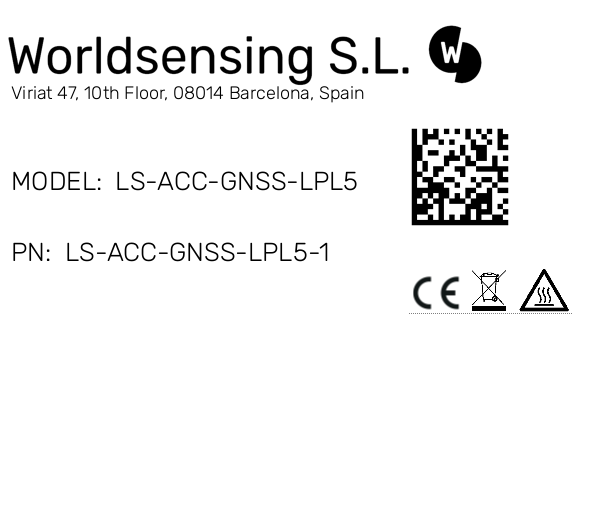
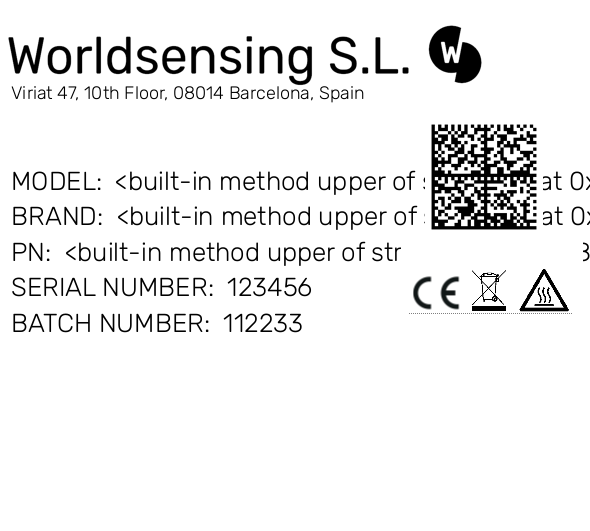
26/03/2026 implementación etiqueta producto, etiqueta GW

Changed region(s): [[0.0, 0.2109, 1.0, 0.452], [0.0, 0.452, 0.6712, 0.6328], [0.9763, 0.452, 1.0, 0.4821]]

diff --git a/labels.py b/labels.py
@@ -30,6 +30,7 @@ def load_config(file_path="config.json"):
 
 config = load_config()
 IMPRESORA = config.get("IMPRESORA", "")
+PRODUCT_PRINTER = config.get ("PRODUCT_PRINTER","")
 DIRECTORIO_LOGO = config.get("DIRECTORIO_LOGO", "")
 RUBIK_FONT_PATH = os.path.expanduser("~/.local/share/fonts/Rubik-Light.ttf")
 BATCH_N = config.get("batch", "")
@@ -116,6 +117,183 @@ def Impr_Acc_packaging_label(datam, Model, ERP_Code):
     label.save(output_path)
     return output_path
 
+def Impr_GW_packaging_label(datam, Model, ERP, SN, MAC, GW_ID):
+    mm_to_px = 11.81  # 300 DPI
+    width, height = int(50 * mm_to_px), int(45 * mm_to_px)
+    label = Image.new("RGB", (width, height), "white")
+    draw = ImageDraw.Draw(label)
+
+    try:
+        font_main = ImageFont.truetype(RUBIK_FONT_PATH, 26)
+        font_small = ImageFont.truetype(RUBIK_FONT_PATH, 18)
+    except:
+        font_main = font_small = ImageFont.load_default()
+
+    # Logo e Info
+    try:
+        logo_path = "/home/ws-prod23/labelling_tk_app/images/W_Label_Devices_new.png"
+        logo = Image.open(logo_path).resize((int(42 * mm_to_px), int(8 * mm_to_px)))
+        label.paste(logo, (0, 0))
+    except: pass
+
+    # Datos
+    y_pos, spacing = 10 * mm_to_px, 3 * mm_to_px
+    draw.text((1 * mm_to_px, y_pos), f"MODEL   {Model}", font=font_main, fill="black")
+    draw.rectangle([(0 * mm_to_px, y_pos),(9 * mm_to_px,y_pos+3 * mm_to_px)],fill = None, outline="black", width=2)
+    draw.rectangle([(9 * mm_to_px, y_pos),(34 * mm_to_px,y_pos+3 * mm_to_px)],fill = None, outline="black", width=2)
+
+    draw.text((1 * mm_to_px, y_pos + spacing), f"ERP        {ERP}", font=font_main, fill="black")
+    draw.rectangle([(0 * mm_to_px, y_pos + spacing),(9 * mm_to_px,y_pos+ spacing *2)],fill = None, outline="black", width=2)
+    draw.rectangle([(9 * mm_to_px, y_pos),(34 * mm_to_px,y_pos + spacing * 2)],fill = None, outline="black", width=2)
+
+    draw.text((1 * mm_to_px, y_pos + spacing * 2), f"SN           {SN}", font=font_main, fill="black")
+    draw.rectangle([(0 * mm_to_px, y_pos + spacing * 2),(9 * mm_to_px,y_pos + spacing * 3)],fill = None, outline="black", width=2)
+    draw.rectangle([(9 * mm_to_px, y_pos),(34 * mm_to_px,y_pos+ spacing * 3)],fill = None, outline="black", width=2)
+
+    draw.text((1 * mm_to_px, y_pos + spacing * 3), f"MAC        {MAC}", font=font_main, fill="black")
+    draw.rectangle([(0 * mm_to_px, y_pos + spacing * 3),(9 * mm_to_px,y_pos+ spacing * 4)],fill = None, outline="black", width=2)
+    draw.rectangle([(9 * mm_to_px, y_pos),(34 * mm_to_px,y_pos+ spacing * 4)],fill = None, outline="black", width=2)
+
+    draw.text((1 * mm_to_px, y_pos + spacing * 4), f"GW ID      {GW_ID}", font=font_main, fill="black")
+    draw.rectangle([(0 * mm_to_px, y_pos + spacing * 4),(9 * mm_to_px,y_pos + spacing * 5)],fill = None, outline="black", width=2)
+    draw.rectangle([(9 * mm_to_px, y_pos),(34 * mm_to_px,y_pos+ spacing * 5)],fill = None, outline="black", width=2)
+
+    draw.text((7 * mm_to_px, y_pos + spacing * 6), f"Made in France", font=font_main, fill="black")
+
+    # DataMatrix e Iconos
+    encoded = encode(datam.encode('utf8'))
+    dmtx = Image.frombytes('RGB', (encoded.width, encoded.height), encoded.pixels).resize((int(10 * mm_to_px), int(10 * mm_to_px)))
+    label.paste(dmtx, (int(36 * mm_to_px), int(10 * mm_to_px)))
+    
+    try:
+        icons = Image.open(os.path.join(DIRECTORIO_LOGO, "iconos.png"))
+        label.paste(icons, (int(34 * mm_to_px), int(20 * mm_to_px)))
+    except: pass
+    
+    output_path = os.path.expanduser("~/labelling_tk_app/output_gw.png")
+    label.save(output_path)
+    return output_path
+
+def Impr_GW_Repeater_packaging_label(datam, Model, ERP, SN, MAC, GW_ID, NetID, NodeID):
+    mm_to_px = 11.81  # 300 DPI
+    width, height = int(50 * mm_to_px), int(45 * mm_to_px)
+    label = Image.new("RGB", (width, height), "white")
+    draw = ImageDraw.Draw(label)
+
+    try:
+        font_main = ImageFont.truetype(RUBIK_FONT_PATH, 26)
+        font_small = ImageFont.truetype(RUBIK_FONT_PATH, 18)
+    except:
+        font_main = font_small = ImageFont.load_default()
+
+    # Logo e Info
+    try:
+        logo_path = "/home/ws-prod23/labelling_tk_app/images/W_Label_Devices_new.png"
+        logo = Image.open(logo_path).resize((int(38 * mm_to_px), int(7 * mm_to_px)))
+        label.paste(logo, (0, 0))
+    except: pass
+
+    # Datos
+    y_pos, spacing = 7 * mm_to_px, 3 * mm_to_px
+    draw.text((1 * mm_to_px, y_pos), f"MODEL       {Model}", font=font_main, fill="black")
+    draw.rectangle([(0 * mm_to_px, y_pos),(10 * mm_to_px,y_pos+3 * mm_to_px)],fill = None, outline="black", width=2)
+    draw.rectangle([(10 * mm_to_px, y_pos),(34 * mm_to_px,y_pos+3 * mm_to_px)],fill = None, outline="black", width=2)
+
+    draw.text((1 * mm_to_px, y_pos + spacing), f"ERP             {ERP}", font=font_main, fill="black")
+    draw.rectangle([(0 * mm_to_px, y_pos + spacing),(10 * mm_to_px,y_pos+ spacing *2)],fill = None, outline="black", width=2)
+    draw.rectangle([(10 * mm_to_px, y_pos),(34 * mm_to_px,y_pos + spacing * 2)],fill = None, outline="black", width=2)
+
+    draw.text((1 * mm_to_px, y_pos + spacing * 2), f"SN               {SN}", font=font_main, fill="black")
+    draw.rectangle([(0 * mm_to_px, y_pos + spacing * 2),(10 * mm_to_px,y_pos + spacing * 3)],fill = None, outline="black", width=2)
+    draw.rectangle([(10 * mm_to_px, y_pos),(34 * mm_to_px,y_pos+ spacing * 3)],fill = None, outline="black", width=2)
+
+    draw.text((1 * mm_to_px, y_pos + spacing * 3), f"MAC            {MAC}", font=font_main, fill="black")
+    draw.rectangle([(0 * mm_to_px, y_pos + spacing * 3),(10 * mm_to_px,y_pos+ spacing * 4)],fill = None, outline="black", width=2)
+    draw.rectangle([(10 * mm_to_px, y_pos),(34 * mm_to_px,y_pos+ spacing * 4)],fill = None, outline="black", width=2)
+
+    draw.text((1 * mm_to_px, y_pos + spacing * 4), f"GW ID          {GW_ID}", font=font_main, fill="black")
+    draw.rectangle([(0 * mm_to_px, y_pos + spacing * 4),(10 * mm_to_px,y_pos + spacing * 5)],fill = None, outline="black", width=2)
+    draw.rectangle([(10 * mm_to_px, y_pos),(34 * mm_to_px,y_pos+ spacing * 5)],fill = None, outline="black", width=2)
+
+    draw.text((1 * mm_to_px, y_pos + spacing * 5), f"NODE ID     {GW_ID}", font=font_main, fill="black")
+    draw.rectangle([(0 * mm_to_px, y_pos + spacing * 4),(10 * mm_to_px,y_pos + spacing * 6)],fill = None, outline="black", width=2)
+    draw.rectangle([(10 * mm_to_px, y_pos),(34 * mm_to_px,y_pos+ spacing * 6)],fill = None, outline="black", width=2)
+
+    draw.text((1 * mm_to_px, y_pos + spacing * 6), f"NET ID        {GW_ID}", font=font_main, fill="black")
+    draw.rectangle([(0 * mm_to_px, y_pos + spacing * 4),(10 * mm_to_px,y_pos + spacing * 7)],fill = None, outline="black", width=2)
+    draw.rectangle([(10 * mm_to_px, y_pos),(34 * mm_to_px,y_pos+ spacing * 7)],fill = None, outline="black", width=2)
+
+    draw.text((7 * mm_to_px, y_pos + spacing * 8), f"Made in France", font=font_main, fill="black")
+
+    # DataMatrix e Iconos
+    encoded = encode(datam.encode('utf8'))
+    dmtx = Image.frombytes('RGB', (encoded.width, encoded.height), encoded.pixels).resize((int(10 * mm_to_px), int(10 * mm_to_px)))
+    label.paste(dmtx, (int(36 * mm_to_px), int(10 * mm_to_px)))
+    
+    try:
+        icons = Image.open(os.path.join(DIRECTORIO_LOGO, "iconos.png"))
+        label.paste(icons, (int(34 * mm_to_px), int(20 * mm_to_px)))
+    except: pass
+    
+    output_path = os.path.expanduser("~/labelling_tk_app/output_gw.png")
+    label.save(output_path)
+    return output_path
+
+def Impr_Node_Product_label(datam, Model, Brand, ERP_Code):
+    # Definición de la etiqueta de producto para nodos
+    mm_to_px = 11.81  # 300 DPI
+    #width, height = int(71 * mm_to_px), int(41 * mm_to_px)
+    #width, height = int(51 * mm_to_px), int(35 * mm_to_px)
+    width, height = int(55 * mm_to_px), int(35 * mm_to_px)
+
+    label = Image.new("RGB", (width, height), "white")
+    draw = ImageDraw.Draw(label)
+
+    try:
+        font_main = ImageFont.truetype(RUBIK_FONT_PATH, 22)
+        font_small = ImageFont.truetype(RUBIK_FONT_PATH, 15)
+        font_direction = ImageFont.truetype(RUBIK_FONT_PATH, 18)
+    except:
+        font_main = font_small = ImageFont.load_default()
+
+    # Logo e Info
+    try:
+        logo_path = "/home/ws-prod23/labelling_tk_app/images/W_Label_Devices_new.png"
+        logo = Image.open(logo_path).resize((int(33 * mm_to_px), int(7 * mm_to_px)))
+        label.paste(logo, (1, 4))
+    except: pass
+
+    draw.text((1 * mm_to_px, 8 * mm_to_px), "Viriat 47, 10th Floor, 08014 Barcelona, Spain", font=font_direction, fill="black")
+
+    # Datos
+    y_pos, spacing = 12 * mm_to_px, 2 * mm_to_px
+    draw.text((1 * mm_to_px, y_pos), f"MODEL:  {Model}", font=font_main, fill="black")
+    draw.text((1 * mm_to_px, y_pos + spacing), f"BRAND:  {Brand}", font=font_main, fill="black")
+    draw.text((1 * mm_to_px, y_pos + spacing * 2), f"PN:  {ERP_Code}", font=font_main, fill="black")
+    draw.text((1 * mm_to_px, y_pos + spacing * 3), f"MADE IN SPAIN", font=font_main, fill="black")
+    draw.text((1 * mm_to_px, y_pos + spacing * 4), f"CONTAINS FCC ID 2AHN4-WSBRDLR112X, SQG-LYRAP", font=font_main, fill="black")
+    draw.text((1 * mm_to_px, y_pos + spacing * 5), f"CONTAINS IC ID 21260-WSBRDLR112X, 3147A-LYRAP", font=font_main, fill="black")
+    draw.text((1 * mm_to_px, y_pos + spacing * 7), f"This device complies with part 15 of the FCC Rules. Operation is subjet to the following", font=font_small, fill="black")
+    draw.text((1 * mm_to_px, y_pos + spacing * 7.7), f"two conditions: (1) this device mayt not cause harmfil interference, and (2) this device must", font=font_small, fill="black")
+    draw.text((1 * mm_to_px, y_pos + spacing * 8.4), f"accept any interference received, including interference that may cause undesired operation.", font=font_small, fill="black")
+
+
+    # DataMatrix e Iconos
+    encoded = encode(datam.encode('utf8'))
+    dmtx = Image.frombytes('RGB', (encoded.width, encoded.height), encoded.pixels).resize((int(10 * mm_to_px), int(10 * mm_to_px)))
+    label.paste(dmtx, (int(38 * mm_to_px), int(5 * mm_to_px)))
+    
+    try:
+        icons = Image.open(os.path.join(DIRECTORIO_LOGO, "iconos_producto.png")).resize((int(15* mm_to_px), int(5 * mm_to_px)))
+        
+        label.paste(icons, (int(35 * mm_to_px), int(15 * mm_to_px)))
+    except: pass
+    
+    output_path = os.path.expanduser("~/labelling_tk_app/output_producto.png")
+    #label = label.resize(int(50 * mm_to_px), int(36 * mm_to_px))
+    label.save(output_path)
+    return output_path
+
 # --- Funciones Interfaz ---
 
 def switch_view():
@@ -135,6 +313,7 @@ def switch_view():
         for i, (txt, var) in enumerate(fields):
             tk.Label(dynamic_container, text=txt, font=fuente_labels).grid(row=i, column=0, sticky="w", pady=2)
             tk.Entry(dynamic_container, textvariable=var,font=fuente_entradas, width=50).grid(row=i, column=1, sticky="w")
+        
     elif mode == 3:
         tk.Label(dynamic_container, text="Model:", font=fuente_labels).grid(row=0, column=0, sticky="w")
         tk.Entry(dynamic_container, textvariable=manual_model,font=fuente_entradas, width=50).grid(row=0, column=1, sticky="w")
@@ -142,6 +321,21 @@ def switch_view():
         tk.Entry(dynamic_container, textvariable=manual_pn, font=fuente_entradas, width=50).grid(row=1, column=1, sticky="w")
         tk.Label(dynamic_container, text="Nº Copias:", font=fuente_labels).grid(row=2, column=0, sticky="w", pady=10)
         tk.Entry(dynamic_container, textvariable=num_copias_var, font= fuente_entradas, width=10).grid(row=2, column=1, sticky="w")
+    elif mode == 4:
+        tk.Label(dynamic_container, text="Model:", font=fuente_labels).grid(row=0, column=0, sticky="w")
+        tk.Entry(dynamic_container, textvariable=manual_model,font=fuente_entradas, width=50).grid(row=0, column=1, sticky="w")
+        tk.Label(dynamic_container, text="ERP:", font=fuente_labels).grid(row=1, column=0, sticky="w", pady=3)
+        tk.Entry(dynamic_container, textvariable=manual_pn, font=fuente_entradas, width=50).grid(row=1, column=1, sticky="w")
+        tk.Label(dynamic_container, text="SN:", font=fuente_labels).grid(row=2, column=0, sticky="w", pady=3)
+        tk.Entry(dynamic_container, textvariable=manual_sn, font= fuente_entradas, width=50).grid(row=2, column=1, sticky="w")
+        tk.Label(dynamic_container, text="MAC:", font=fuente_labels).grid(row=3, column=0, sticky="w", pady=3)
+        tk.Entry(dynamic_container, textvariable= manual_mac, font= fuente_entradas, width=50).grid(row=3, column=1, sticky="w")
+        tk.Label(dynamic_container, text="GW ID:", font=fuente_labels).grid(row=4, column=0, sticky="w", pady=3)
+        tk.Entry(dynamic_container, textvariable= manual_gw_id, font= fuente_entradas, width=50).grid(row=4, column=1, sticky="w")
+        tk.Label(dynamic_container, text="NODE ID:", font=fuente_labels).grid(row=5, column=0, sticky="w", pady=3)
+        tk.Entry(dynamic_container, textvariable= manual_node_id, font= fuente_entradas, width=50).grid(row=5, column=1, sticky="w")
+        tk.Label(dynamic_container, text="NET ID:", font=fuente_labels).grid(row=6, column=0, sticky="w", pady=3)
+        tk.Entry(dynamic_container, textvariable= manual_net_id, font= fuente_entradas, width=50).grid(row=6, column=1, sticky="w")
 
 def search_record():
     file_path, filter_val = file_entry_var.get(), filter_value.get()
@@ -164,16 +358,41 @@ def display_label():
             brand, m, p, s = manual_brand.get(), label1_value.get(), label2_value.get(), label3_value.get()
             datam = f"{m};{s};{BATCH_N}"
             path = Impr_Node_packaging_label(datam, m, brand, p, s)
+        # Configuración para Nodos
         elif mode == 2:
             brand, m, p = manual_brand.get(), manual_model.get(), manual_pn.get(),
             s =  manual_sn.get()
             #print(f"valor leido para el serial --> {s}\n")
-            s = s.split(";")[1]
-            #print(f"valor transformado para el serial --> {s}\n")
+            if ";" in s:
+                s = s.split(";")[1]
+                #print(f"valor transformado para el serial --> {s}\n")
+            else:
+                s = manual_sn.get()
             b = manual_batch.get() if manual_batch.get() else BATCH_N
             datam = f"{p};{s};{b}"
             path = Impr_Node_packaging_label(datam, m, brand, p, s)
-        else:
+        
+        # Configuración para GW
+        elif mode == 4: 
+            MAC, m, p = manual_mac.get(), manual_model.get(), manual_pn.get(),
+            s =  manual_sn.get()
+            #print(f"valor leido para el serial --> {s}\n")
+            if ";" in s:
+                s = s.split(";")[1]
+                #print(f"valor transformado para el serial --> {s}\n")
+            else:
+                s = manual_sn.get()
+            GW_ID = manual_gw_id.get()
+            NetID = manual_net_id.get()
+            NodeID = manual_node_id.get()
+            datam = f"{p};{s}"
+            if NetID == "" or NodeID == "":
+                path = Impr_GW_packaging_label(datam, m, p, s, MAC, GW_ID,)
+                
+            else :
+                path = Impr_GW_Repeater_packaging_label(datam, m, p, s, MAC, GW_ID, NetID, NodeID)
+        
+        elif mode == 3: 
             m, p = manual_model.get(), manual_pn.get()
             datam = f"{p}"
             path = Impr_Acc_packaging_label(datam, m, p)
@@ -183,8 +402,36 @@ def display_label():
         label_preview.config(image=foto); label_preview.image = foto
     except Exception as e: messagebox.showerror("Error", str(e))
 
+def display_product_label():
+    try:
+        mode = selected_mode.get()
+        if mode == 2:
+            brand, m, p = manual_brand.get(), manual_model.get(), manual_pn.get(),
+            s =  manual_sn.get()
+            if ";" in s:
+                s = s.split(";")[1]
+                #print(f"valor transformado para el serial --> {s}\n")
+            else:
+                s = manual_sn.get()
+            b = manual_batch.get() if manual_batch.get() else BATCH_N
+            datam = f"{p};{s};{b}"
+            path = Impr_Node_Product_label(datam, m, brand, p)   # Atención falta ajustar los parámetros
+        else:
+            m, p = manual_model.get(), manual_pn.get()
+            datam = f"{p}"
+            path = Impr_Acc_packaging_label(datam, m, p)
+        
+        img = Image.open(path)
+        foto = IMG.PhotoImage(img)
+        product_preview.config(image=foto); product_preview.image = foto
+    except Exception as e: messagebox.showerror("Error", str(e))
+
 def print_label():
-    path = os.path.expanduser("~/labelling_tk_app/output_test2.png")
+    mode = selected_mode.get()
+    if mode == 4:
+        path = os.path.expanduser("~/labelling_tk_app/output_gw.png")
+    else:
+        path = os.path.expanduser("~/labelling_tk_app/output_test2.png")
     if not os.path.exists(path): return
     
     try:
@@ -203,6 +450,22 @@ def print_label():
         num_copias_var.set("1")
     except Exception as e: messagebox.showerror("Error", str(e))
 
+def print_product_label():
+    path = os.path.expanduser("~/labelling_tk_app/output_producto.png")
+    if not os.path.exists(path): return
+    
+    try:
+        # Lógica de copias
+        n_copias = 1
+        for i in range(n_copias):
+            #os.system(f'lp -o orientation-requested=3 -d {PRODUCT_PRINTER} {path}')
+            os.system(f'lp -d {PRODUCT_PRINTER} {path}')
+            
+        messagebox.showinfo("Impresión", f"Enviado correctamente ({n_copias} copias).")
+        for v in [manual_model, manual_pn, manual_sn, filter_value]: v.set("")
+        num_copias_var.set("1")
+    except Exception as e: messagebox.showerror("Error", str(e))
+
 # --- Setup Principal ---
 root = tk.Tk()
 root.title("WS Labelling - Rev 3.0")
@@ -210,13 +473,13 @@ monitor = get_monitors()[0]
 root.geometry(f"{monitor.width}x{monitor.height}")
 
 fuente_labels = tkfont.Font(family="Arial", size=30, weight="normal")
-fuente_botones = tkfont.Font(family="Arial", size=30, weight="bold")
+fuente_botones = tkfont.Font(family="Arial", size=20, weight="bold")
 fuente_entradas = tkfont.Font(family="Arial", size=20)
 
 selected_mode = tk.IntVar(value=1)
 file_entry_var, filter_value = tk.StringVar(), tk.StringVar()
-label1_value, label2_value, label3_value = tk.StringVar(value="N/A"), tk.StringVar(value="N/A"), tk.StringVar(value="N/A")
-manual_model, manual_brand, manual_pn, manual_sn, manual_batch = tk.StringVar(), tk.StringVar(value="LOADSENSING G7",), tk.StringVar(), tk.StringVar(), tk.StringVar()
+label1_value, label2_value, label3_value, label4_value, label5_value, label6_value = tk.StringVar(value="N/A"), tk.StringVar(value="N/A"), tk.StringVar(value="N/A"), tk.StringVar(value="N/A"), tk.StringVar(value="N/A"), tk.StringVar(value="N/A")
+manual_model, manual_brand, manual_pn, manual_sn, manual_batch, manual_mac, manual_gw_id, manual_node_id, manual_net_id = tk.StringVar(), tk.StringVar(value="LOADSENSING G7",), tk.StringVar(), tk.StringVar(), tk.StringVar(), tk.StringVar(), tk.StringVar(), tk.StringVar(), tk.StringVar()
 num_copias_var = tk.StringVar(value="1")
 
 # Header UI
@@ -227,16 +490,19 @@ try:
 except: pass
 
 m_frame = tk.LabelFrame(root, text="Tipo de etiqueta", font=fuente_labels ,padx=10, pady=5); m_frame.pack(fill="x", padx=20)
-for i, txt in enumerate(["Archivo", "Dispositivo Manual", "Accesorio Manual"], 1):
+for i, txt in enumerate(["Archivo", "Dispositivo Manual", "Accesorio Manual", "GW"], 1):
     tk.Radiobutton(m_frame, text=txt, font=fuente_labels ,variable=selected_mode, value=i, command=switch_view).pack(side="left", padx=10)
 
 dynamic_container = tk.Frame(root, pady=15); dynamic_container.pack()
 
 b_frame = tk.Frame(root); b_frame.pack(pady=10)
 tk.Button(b_frame, text="GENERAR ETIQUETA", bg="#f0f0f0", font=fuente_botones,command=display_label, width=20, height=2).pack(side="left", padx=5)
+ver_producto = tk.Button(b_frame, text="GENERAR ETIQUETA PRODUCTO", bg="#f0f0f0", font=fuente_botones,command=display_product_label, width=30, height=2)
+ver_producto.pack(side="left", padx=5)
 tk.Button(b_frame, text="IMPRIMIR", bg="#d1ffd1", font=fuente_botones,command=print_label, width=20, height=2).pack(side="left", padx=5)
-
-label_preview = tk.Label(root, bg="white", relief="solid", width=650, height=450); label_preview.pack(pady=10)
+tk.Button(b_frame, text = "IMPRIMIR PRODUCTO", bg= "#d1ffd1", font=fuente_botones,command=print_product_label, width=20, height=2).pack(side="left", padx=5)
+label_preview = tk.Label(root, bg="white", relief="solid", width=650, height=450); label_preview.pack(side="left",padx= 10, pady=10)
+product_preview = tk.Label(root, bg="white", relief="solid", width=800, height=600); product_preview.pack(side="left",padx=10, pady=10)
 
 switch_view()
 root.mainloop()
